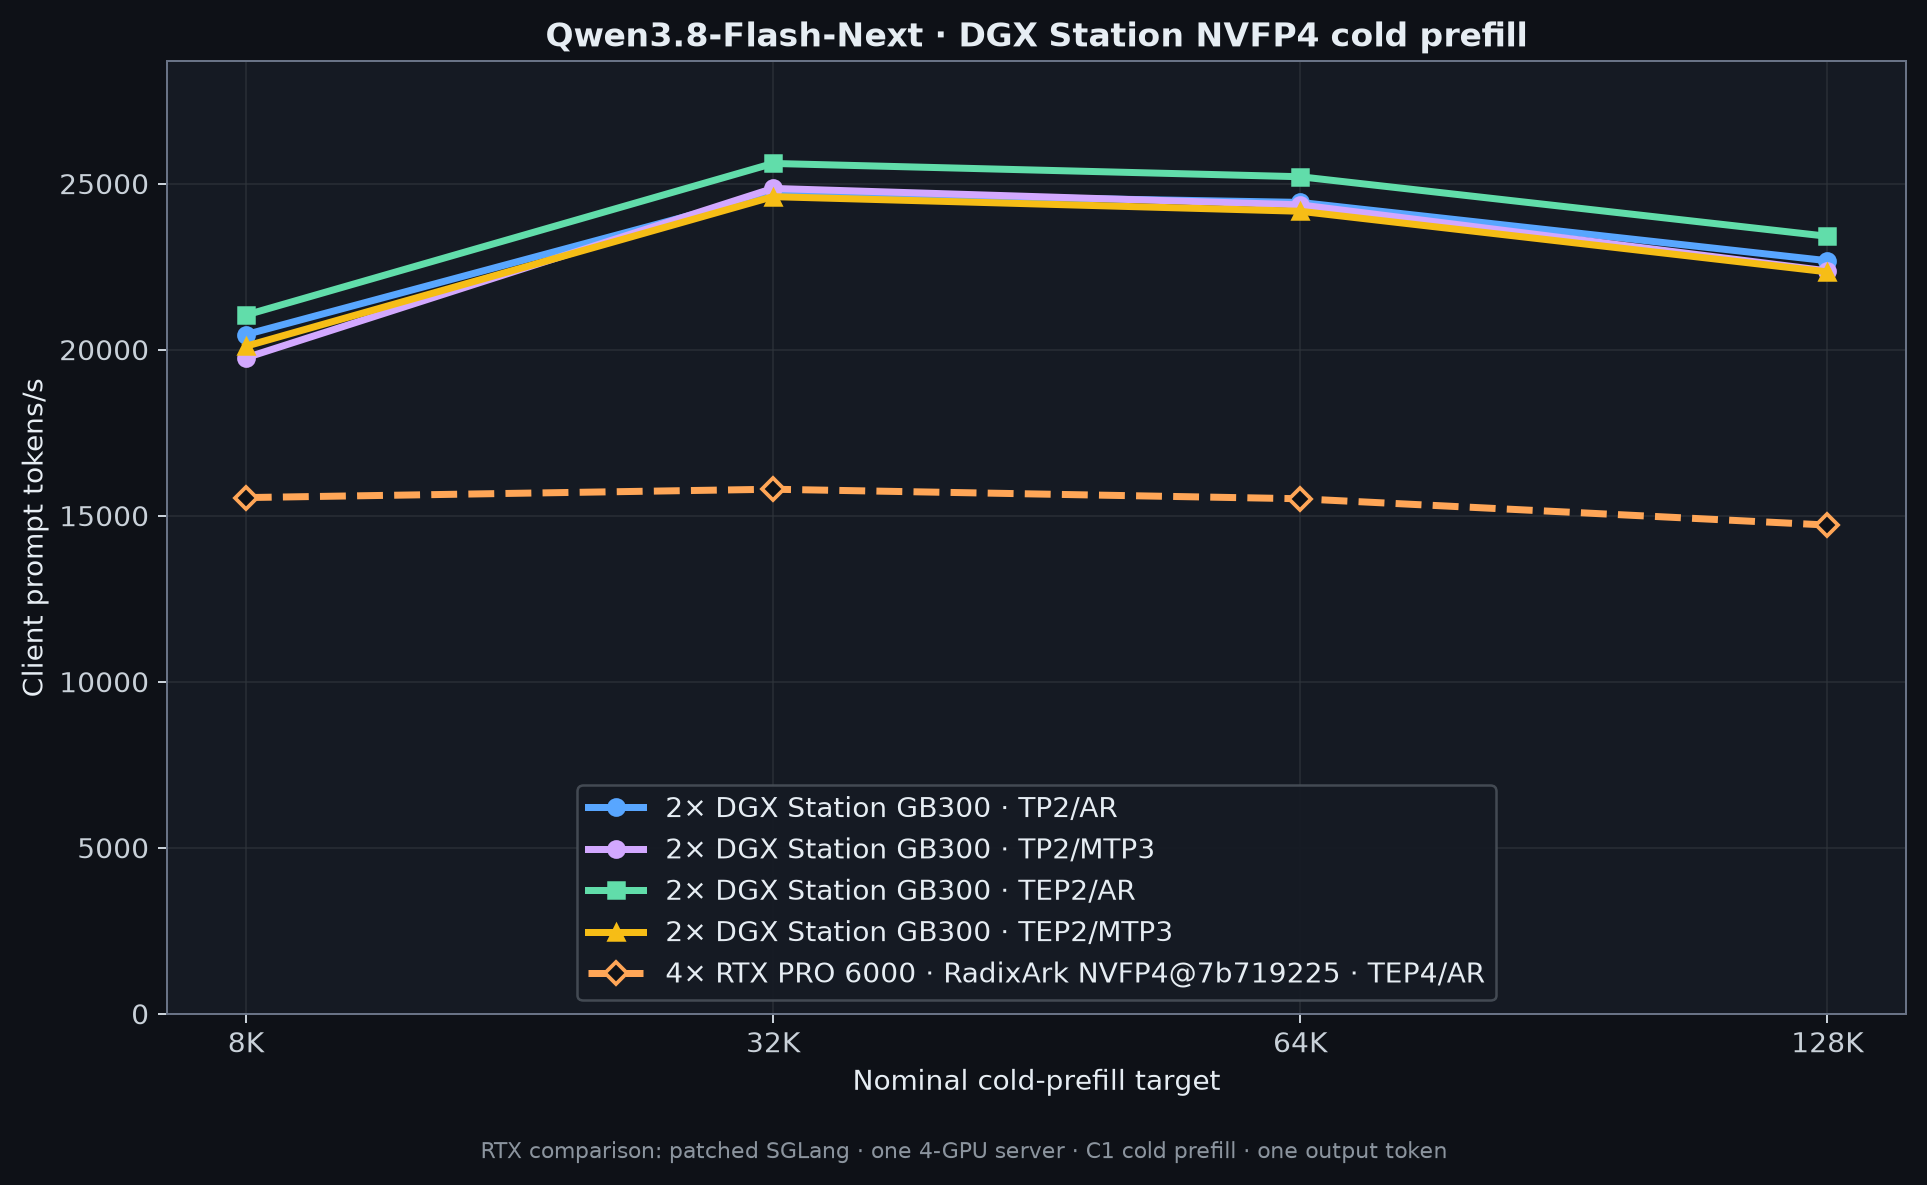
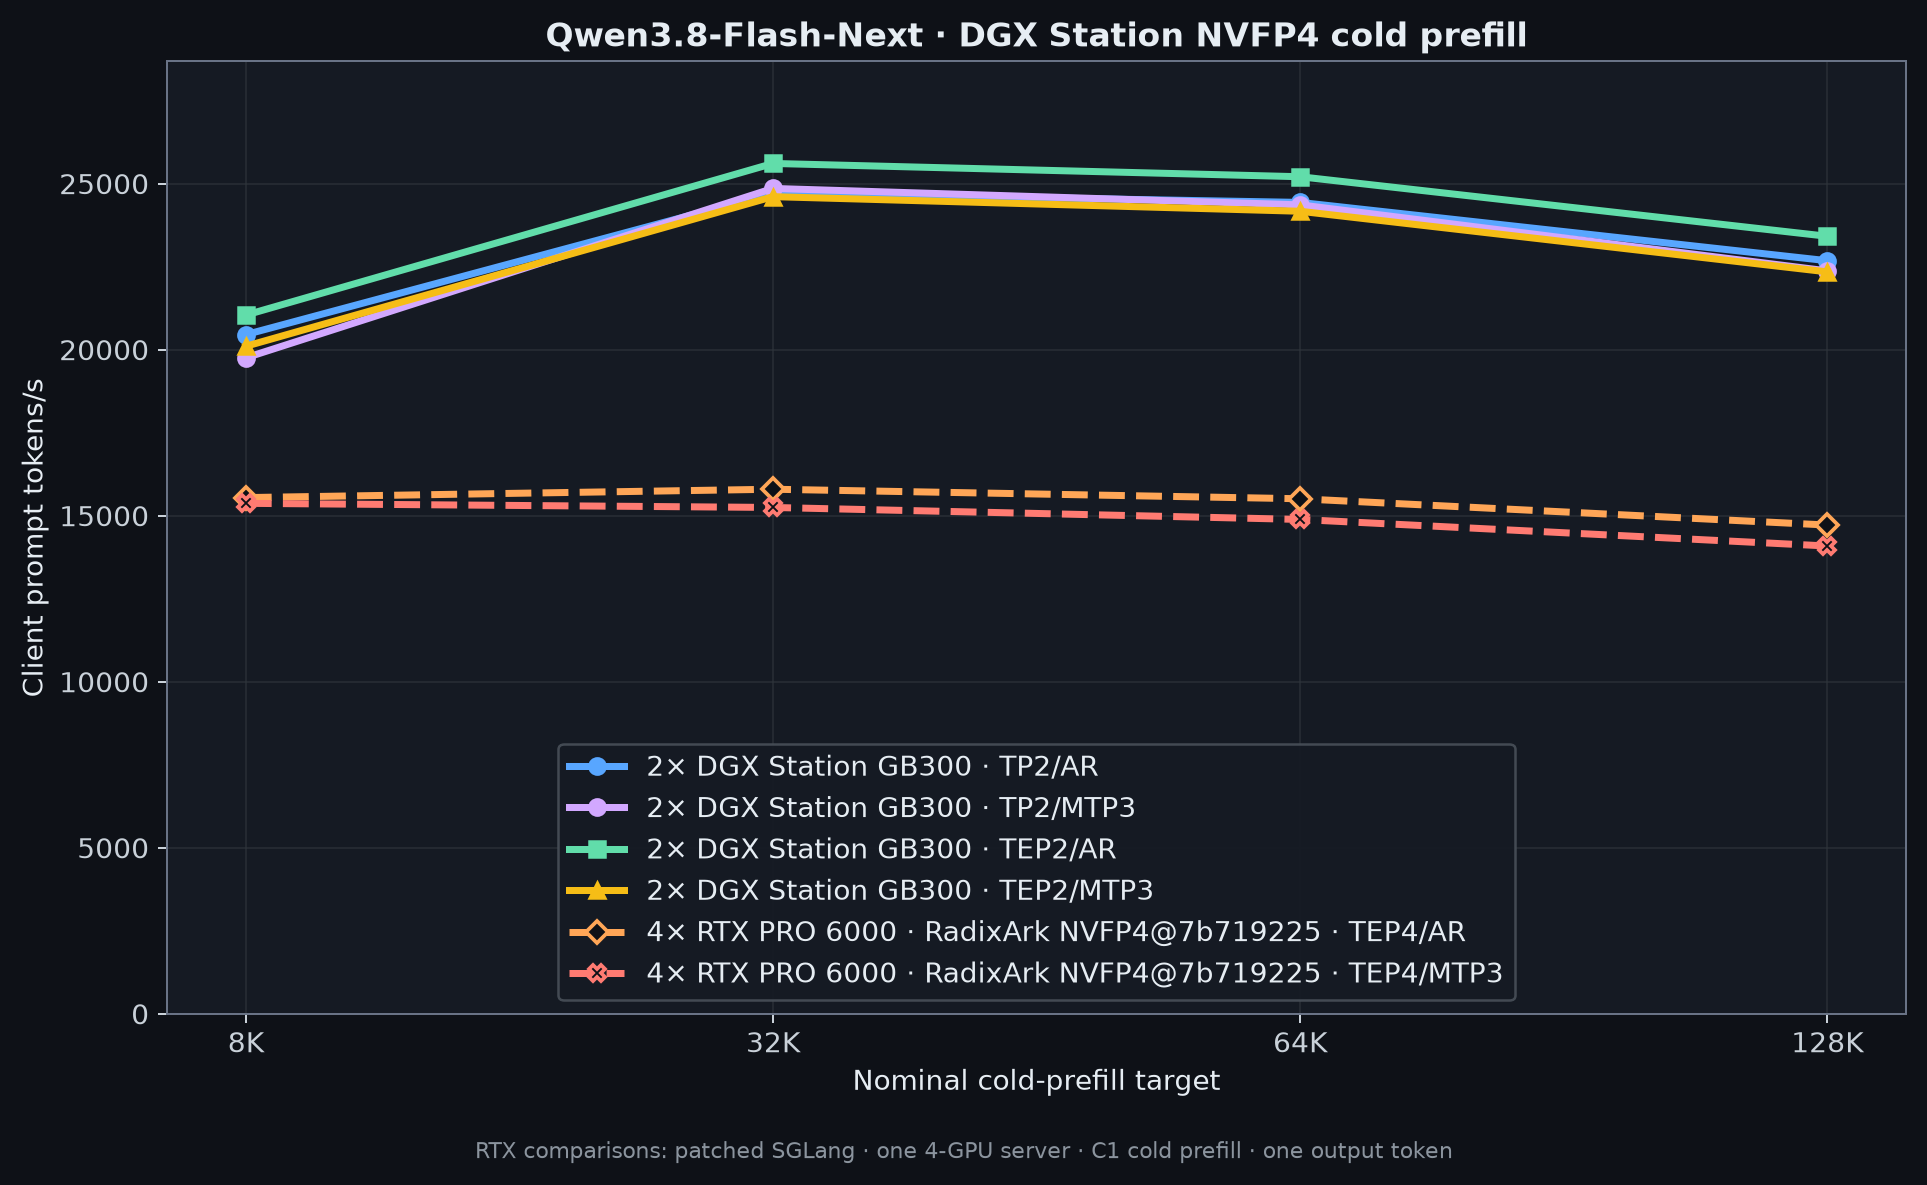
Add RTX PRO 6000 MTP3 comparison curves

diff --git a/qwen3.8-flash-next/charts/render-charts.py b/qwen3.8-flash-next/charts/render-charts.py
@@ -63,8 +63,18 @@ DGX_HEADLINE_SERIES = {
         "^",
     ),
 }
-RTX_COMPARISON_LABEL = "4× RTX PRO 6000 · RadixArk NVFP4@7b719225 · TEP4/AR"
-RTX_NVFP4_PROFILE = "nvfp4_tep4_ar"
+RTX_COMPARISON_SERIES = {
+    "nvfp4_tep4_ar": (
+        "4× RTX PRO 6000 · RadixArk NVFP4@7b719225 · TEP4/AR",
+        "#FFA657",
+        "D",
+    ),
+    "nvfp4_tep4_mtp3": (
+        "4× RTX PRO 6000 · RadixArk NVFP4@7b719225 · TEP4/MTP3",
+        "#FF7B72",
+        "X",
+    ),
+}
 
 BACKGROUND = "#0E1117"
 PANEL = "#151A23"
@@ -176,20 +186,20 @@ def dynamic_y_upper(values: list[float]) -> float:
     return max(1.0, max(values, default=0.0) * 1.12)
 
 
-def rtx_nvfp4_ar_decode() -> dict[int, float]:
+def rtx_nvfp4_decode(profile: str) -> dict[int, float]:
     values: dict[int, float] = {}
     for row in published_external_rows("throughput.csv"):
         concurrency = int(row["concurrency"])
-        if row["profile"] != RTX_NVFP4_PROFILE or concurrency > 64:
+        if row["profile"] != profile or concurrency > 64:
             continue
         values[concurrency] = float(row["aggregate_output_tokens_per_second"])
     return values
 
 
-def rtx_nvfp4_ar_prefill() -> dict[int, float]:
+def rtx_nvfp4_prefill(profile: str) -> dict[int, float]:
     values: dict[int, float] = {}
     for row in published_external_rows("prefill.csv"):
-        if row["profile"] != RTX_NVFP4_PROFILE:
+        if row["profile"] != profile:
             continue
         context = int(row["nominal_context_tokens"])
         values[context] = float(row["client_prompt_tokens_per_second"])
@@ -198,7 +208,6 @@ def rtx_nvfp4_ar_prefill() -> dict[int, float]:
 
 def render_dgx_decode() -> None:
     grouped = headline_dgx_series("decode")
-    rtx_comparison = rtx_nvfp4_ar_decode()
     figure, axis = plt.subplots(figsize=(10.8, 6.6))
     plotted_values: list[float] = []
     for profile, (label, color, linestyle, marker) in DGX_HEADLINE_SERIES.items():
@@ -218,25 +227,26 @@ def render_dgx_decode() -> None:
             label=label,
         )
 
-    rtx_concurrencies = [
-        value for value in DGX_CONCURRENCIES if value in rtx_comparison
-    ]
-    if rtx_concurrencies:
-        rtx_values = [
-            rtx_comparison[concurrency] for concurrency in rtx_concurrencies
+    for profile, (label, color, marker) in RTX_COMPARISON_SERIES.items():
+        rtx_comparison = rtx_nvfp4_decode(profile)
+        rtx_concurrencies = [
+            value for value in DGX_CONCURRENCIES if value in rtx_comparison
         ]
+        if not rtx_concurrencies:
+            continue
+        rtx_values = [rtx_comparison[value] for value in rtx_concurrencies]
         plotted_values.extend(rtx_values)
         axis.plot(
             rtx_concurrencies,
             rtx_values,
-            color="#FFA657",
+            color=color,
             linestyle="--",
             linewidth=2.8,
-            marker="D",
+            marker=marker,
             markersize=6.5,
             markerfacecolor=BACKGROUND,
             markeredgewidth=1.5,
-            label=RTX_COMPARISON_LABEL,
+            label=label,
         )
     axis.set_xscale("log", base=2)
     axis.set_xticks(DGX_CONCURRENCIES, [str(value) for value in DGX_CONCURRENCIES])
@@ -249,7 +259,7 @@ def render_dgx_decode() -> None:
     figure.text(
         0.5,
         0.018,
-        "RTX comparison: patched SGLang · one 4-GPU server · 8,192 input + 1,024 output tokens · temperature 0",
+        "RTX comparisons: patched SGLang · one 4-GPU server · 8,192 input + 1,024 output tokens · temperature 0",
         ha="center",
         color=MUTED,
         fontsize=8.8,
@@ -266,7 +276,6 @@ def render_dgx_decode() -> None:
 
 def render_dgx_prefill() -> None:
     grouped = headline_dgx_series("prefill")
-    rtx_comparison = rtx_nvfp4_ar_prefill()
     figure, axis = plt.subplots(figsize=(10.8, 6.6))
     positions = list(range(len(PREFILL_CONTEXTS)))
     context_labels = ("8K", "32K", "64K", "128K")
@@ -291,23 +300,26 @@ def render_dgx_prefill() -> None:
             label=label,
         )
 
-    rtx_contexts = [
-        context for context in PREFILL_CONTEXTS if context in rtx_comparison
-    ]
-    if rtx_contexts:
+    for profile, (label, color, marker) in RTX_COMPARISON_SERIES.items():
+        rtx_comparison = rtx_nvfp4_prefill(profile)
+        rtx_contexts = [
+            context for context in PREFILL_CONTEXTS if context in rtx_comparison
+        ]
+        if not rtx_contexts:
+            continue
         rtx_values = [rtx_comparison[context] for context in rtx_contexts]
         plotted_values.extend(rtx_values)
         axis.plot(
             [position_by_context[context] for context in rtx_contexts],
             rtx_values,
-            color="#FFA657",
+            color=color,
             linestyle="--",
             linewidth=2.8,
-            marker="D",
+            marker=marker,
             markersize=6.5,
             markerfacecolor=BACKGROUND,
             markeredgewidth=1.5,
-            label=RTX_COMPARISON_LABEL,
+            label=label,
         )
 
     axis.set_xlim(-0.15, 3.15)
@@ -321,7 +333,7 @@ def render_dgx_prefill() -> None:
     figure.text(
         0.5,
         0.018,
-        "RTX comparison: patched SGLang · one 4-GPU server · C1 cold prefill · one output token",
+        "RTX comparisons: patched SGLang · one 4-GPU server · C1 cold prefill · one output token",
         ha="center",
         color=MUTED,
         fontsize=8.8,

diff --git a/qwen3.8-flash-next/tests/test_section_contract.py b/qwen3.8-flash-next/tests/test_section_contract.py
@@ -262,7 +262,7 @@ class SectionContractTests(unittest.TestCase):
         )
         visible_labels = [
             series[0] for series in renderer.DGX_HEADLINE_SERIES.values()
-        ] + [renderer.RTX_COMPARISON_LABEL]
+        ] + [series[0] for series in renderer.RTX_COMPARISON_SERIES.values()]
         self.assertFalse(
             any(
                 word in label.lower()
@@ -276,30 +276,58 @@ class SectionContractTests(unittest.TestCase):
             renderer.dynamic_y_upper([1000.0]),
         )
 
-    def test_workstation_nvfp4_tep4_ar_comparison_is_exact_and_stops_at_c64(self) -> None:
+    def test_workstation_nvfp4_comparisons_are_exact_and_stop_at_c64(self) -> None:
         renderer = load_chart_renderer()
         self.assertEqual(
-            renderer.RTX_COMPARISON_LABEL,
-            "4× RTX PRO 6000 · RadixArk NVFP4@7b719225 · TEP4/AR",
+            [series[0] for series in renderer.RTX_COMPARISON_SERIES.values()],
+            [
+                "4× RTX PRO 6000 · RadixArk NVFP4@7b719225 · TEP4/AR",
+                "4× RTX PRO 6000 · RadixArk NVFP4@7b719225 · TEP4/MTP3",
+            ],
         )
         expected_decode = {
-            1: 116.892021,
-            2: 223.256146,
-            4: 416.150994,
-            8: 750.218064,
-            16: 1299.416259,
-            32: 1997.580658,
-            64: 2849.433100,
+            "nvfp4_tep4_ar": {
+                1: 116.892021,
+                2: 223.256146,
+                4: 416.150994,
+                8: 750.218064,
+                16: 1299.416259,
+                32: 1997.580658,
+                64: 2849.433100,
+            },
+            "nvfp4_tep4_mtp3": {
+                1: 211.707556,
+                2: 393.985297,
+                4: 674.751892,
+                8: 1049.006002,
+                16: 1524.156598,
+                32: 1868.118647,
+                64: 2377.825054,
+            },
         }
-        decode = renderer.rtx_nvfp4_ar_decode()
-        self.assertEqual(set(decode), set(expected_decode))
-        for concurrency, expected in expected_decode.items():
-            self.assertAlmostEqual(decode[concurrency], expected, places=6)
-        expected_prefill = {8192: 15547, 32768: 15799, 65536: 15512, 131072: 14720}
-        prefill = renderer.rtx_nvfp4_ar_prefill()
-        self.assertEqual(set(prefill), set(expected_prefill))
-        for context, expected in expected_prefill.items():
-            self.assertEqual(prefill[context], expected)
+        expected_prefill = {
+            "nvfp4_tep4_ar": {
+                8192: 15547,
+                32768: 15799,
+                65536: 15512,
+                131072: 14720,
+            },
+            "nvfp4_tep4_mtp3": {
+                8192: 15374,
+                32768: 15250,
+                65536: 14889,
+                131072: 14089,
+            },
+        }
+        for profile in renderer.RTX_COMPARISON_SERIES:
+            decode = renderer.rtx_nvfp4_decode(profile)
+            self.assertEqual(set(decode), set(expected_decode[profile]))
+            for concurrency, expected in expected_decode[profile].items():
+                self.assertAlmostEqual(decode[concurrency], expected, places=6)
+            prefill = renderer.rtx_nvfp4_prefill(profile)
+            self.assertEqual(set(prefill), set(expected_prefill[profile]))
+            for context, expected in expected_prefill[profile].items():
+                self.assertEqual(prefill[context], expected)
 
     def test_decode_handoff_rows_are_exact_complete_and_unique(self) -> None:
         rows = csv_rows("throughput.csv")
@@ -378,14 +406,15 @@ class SectionContractTests(unittest.TestCase):
         }
         self.assertIn("local-inference-lab/Qwen3.8-Flash-Next-NVFP4-4p89", section)
         self.assertIn("one distributed engine across both Stations", section)
-        self.assertIn("comparison point, not a DGX Station", section)
+        self.assertIn("comparison points, not DGX Station", section)
         self.assertIn(
             "RadixArk/Qwen3.8-Flash-Next-NVFP4@"
             "7b719225242aacd3dbd3f9407468c2ee9a9d2594",
             section,
         )
-        self.assertIn("one TEP4/AR server across four RTX PRO 6000", section)
-        self.assertIn("8,192 input + 1,024 output tokens at temperature 0", section)
+        self.assertIn("one TEP4 server across four RTX PRO 6000", section)
+        self.assertIn("Fixed decode is 8,192 input + 1,024 output tokens", section)
+        self.assertIn("temperature 0, shown from C1 through C64", section)
         headline = section.split("Exact checkpoint revisions", 1)[0]
         self.assertNotIn("source-sealed", headline.lower())
         self.assertNotIn("sealed", headline.lower())

diff --git a/qwen3.8-flash-next/charts/README.md b/qwen3.8-flash-next/charts/README.md
@@ -1,16 +1,17 @@
 # Qwen3.8-Flash-Next charts
 
 - `dgx-nvfp4-decode.png` shows the two-Station TP2/TEP2 NVFP4 decode lanes
-  through C64 with the 4× RTX PRO 6000 RadixArk NVFP4 TEP4/AR comparison.
+  through C64 with separate 4× RTX PRO 6000 RadixArk NVFP4 TEP4/AR and
+  TEP4/MTP3 comparisons.
 - `dgx-nvfp4-prefill.png` shows the matching cold-prefill comparison.
 - `decode-throughput.png` shows the 4× RTX PRO 6000 reference decode matrix.
 - `cold-prefill-throughput.png` shows the workstation reference prefill matrix.
 - `tep4-{ar,mtp3}-{decode,prefill}-comparison.png` compares the workstation's
   official FP8/vLLM and Radix NVFP4/SGLang lanes.
 
-Every DGX curve is one distributed engine across both Stations. The dashed
-workstation curve is one TEP4/AR server across four GPUs. Detailed run and
-source notes are in [`../recipes/`](../recipes/).
+Every DGX curve is one distributed engine across both Stations. Each dashed
+workstation curve is one TEP4 server across four GPUs in the labeled decode
+mode. Detailed run and source notes are in [`../recipes/`](../recipes/).
 
 Use CPython 3.12 (the committed charts were rendered with 3.12.3), create the
 pinned chart environment from the section root, then regenerate or verify the

diff --git a/qwen3.8-flash-next/README.md b/qwen3.8-flash-next/README.md
@@ -23,12 +23,13 @@ adds expert parallelism to TP2.
 
 ## RTX PRO 6000 comparison
 
-The dashed orange line is
+The dashed orange and red lines use
 `RadixArk/Qwen3.8-Flash-Next-NVFP4@7b719225242aacd3dbd3f9407468c2ee9a9d2594`
-on patched SGLang: one TEP4/AR server across four RTX PRO 6000 Blackwell GPUs.
-Fixed decode is 8,192 input + 1,024 output tokens at temperature 0, shown from
-C1 through C64. Cold prefill is C1 at 8K, 32K, 64K, and 128K with one output
-token. This is a comparison point, not a DGX Station headline.
+on patched SGLang: one TEP4 server across four RTX PRO 6000 Blackwell GPUs.
+Orange is AR; red is MTP3. Fixed decode is 8,192 input + 1,024 output tokens at
+temperature 0, shown from C1 through C64. Cold prefill is C1 at 8K, 32K, 64K,
+and 128K with one output token. These are comparison points, not DGX Station
+headlines.
 
 Exact checkpoint revisions, launch settings, workload, and per-cell values are
 in the [recipe](recipes/) and [`data/`](data/).

diff --git a/qwen3.8-flash-next/recipes/README.md b/qwen3.8-flash-next/recipes/README.md
@@ -45,9 +45,11 @@ child from a pre-existing `watch -n1 nvidia-smi`; fresh canonical idle gates
 then passed on both hosts without changing measurements or relaunching the
 model. The retry note and both gate outputs remain in the result root.
 
-The dashed chart comparison is the workstation's RadixArk NVFP4/SGLang
-TEP4/AR profile at every point. It is one server across all four RTX PRO 6000
-GPUs, shown at C1–C64 decode and all four cold-prefill contexts.
+The two dashed chart comparisons are the workstation's RadixArk NVFP4/SGLang
+TEP4/AR and TEP4/MTP3 profiles at every point; no pointwise envelope is used.
+Each is one server across all four RTX PRO 6000 GPUs, shown at C1–C64 decode
+and all four cold-prefill contexts. MTP3 requested `NEXTN`, resolved to
+`EAGLE`, and used three steps, top-k 1, and four draft tokens.
 
 ## RTX PRO 6000 comparison details
 
